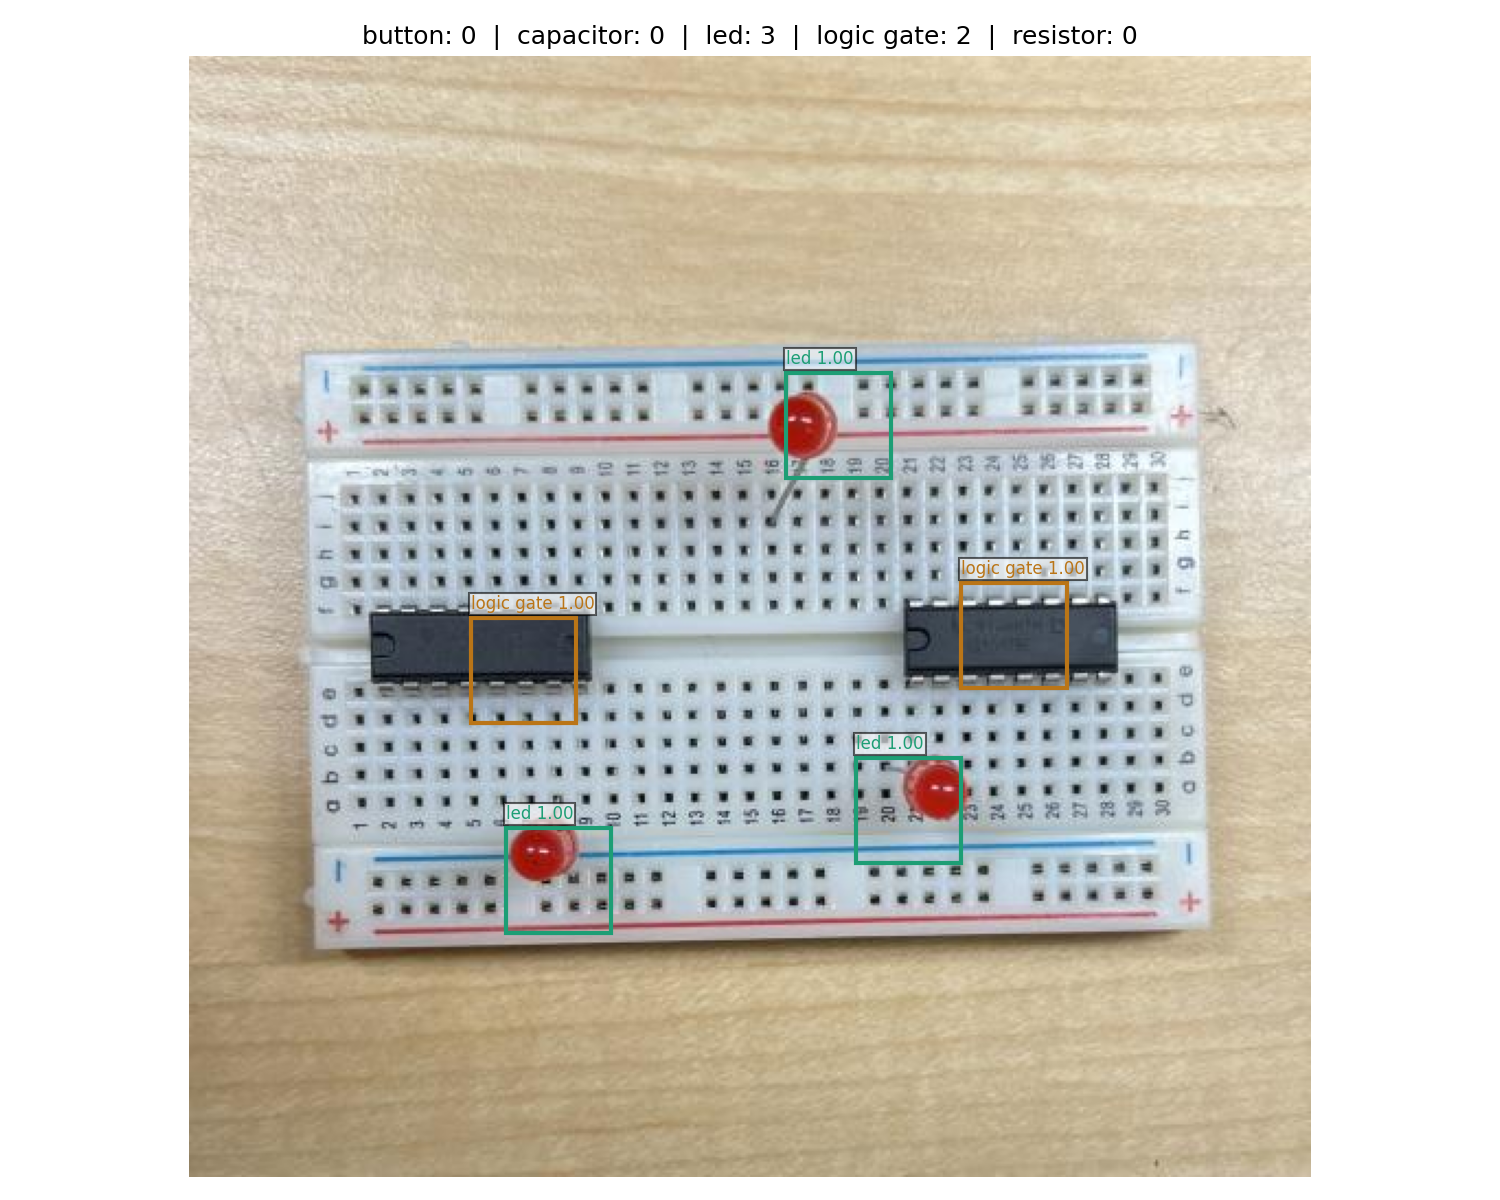
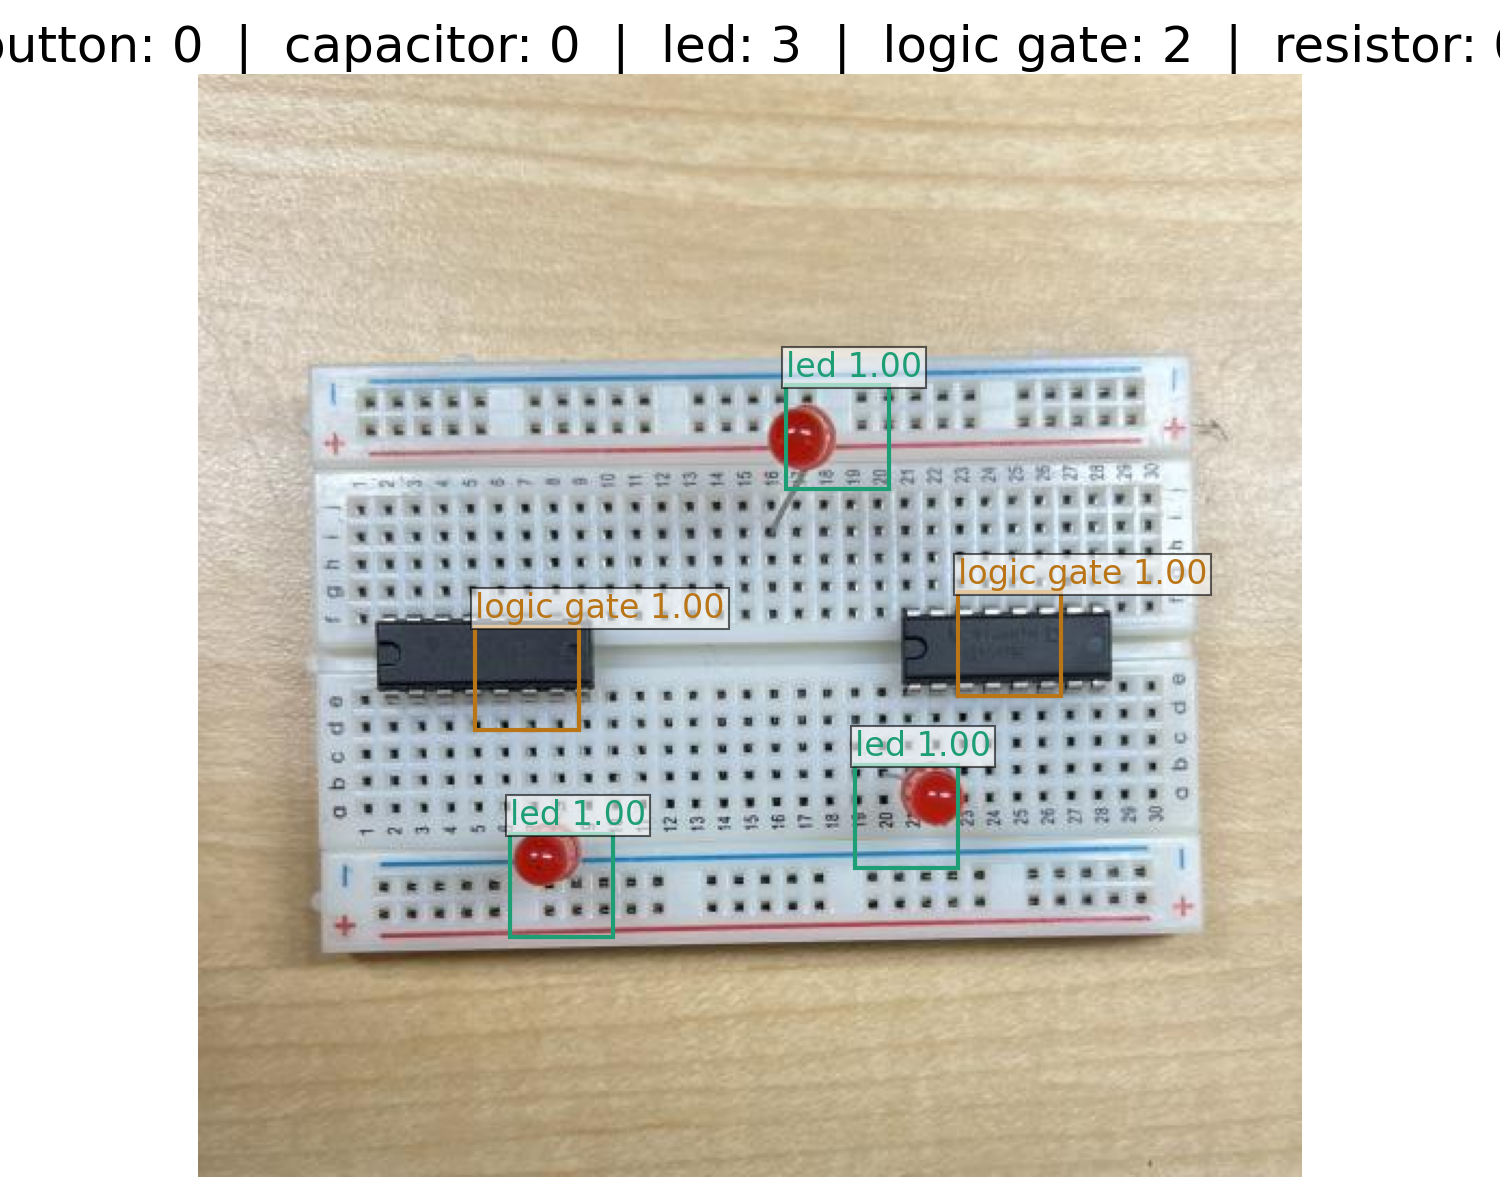
re ran stuff

diff --git a/primary3.py b/primary3.py
@@ -287,11 +287,11 @@ def train_model(model, train_loader, val_loader, num_classes,
     ax1.plot(train_losses, label="Train loss")
     ax1.plot(val_losses,   label="Val loss")
     ax1.set_xlabel("Epoch"); ax1.set_ylabel("Loss")
-    ax1.set_title(f"{model.name} — Loss"); ax1.legend()
+    ax1.set_title(f"{model.name} - Loss"); ax1.legend()
     ax2.plot(train_accs, label="Train acc")
     ax2.plot(val_accs,   label="Val acc")
     ax2.set_xlabel("Epoch"); ax2.set_ylabel("Accuracy")
-    ax2.set_title(f"{model.name} — Accuracy"); ax2.legend()
+    ax2.set_title(f"{model.name} - Accuracy"); ax2.legend()
     plt.tight_layout()
     fname = f"training_curves_{model.name}.png"
     plt.savefig(fname, dpi=150); plt.close()
@@ -439,7 +439,7 @@ def predict_counts(model, image_path, classes,
                     bbox=dict(facecolor="white", alpha=0.6, pad=2))
         
         title = "  |  ".join(f"{k}: {v}" for k, v in counts.items())
-        ax.set_title(title, fontsize=20)
+        ax.set_title(title, fontsize=24)
         ax.axis("off")  # hide ticks
         plt.tight_layout()
         plt.savefig(save_vis, dpi=150); plt.close()
